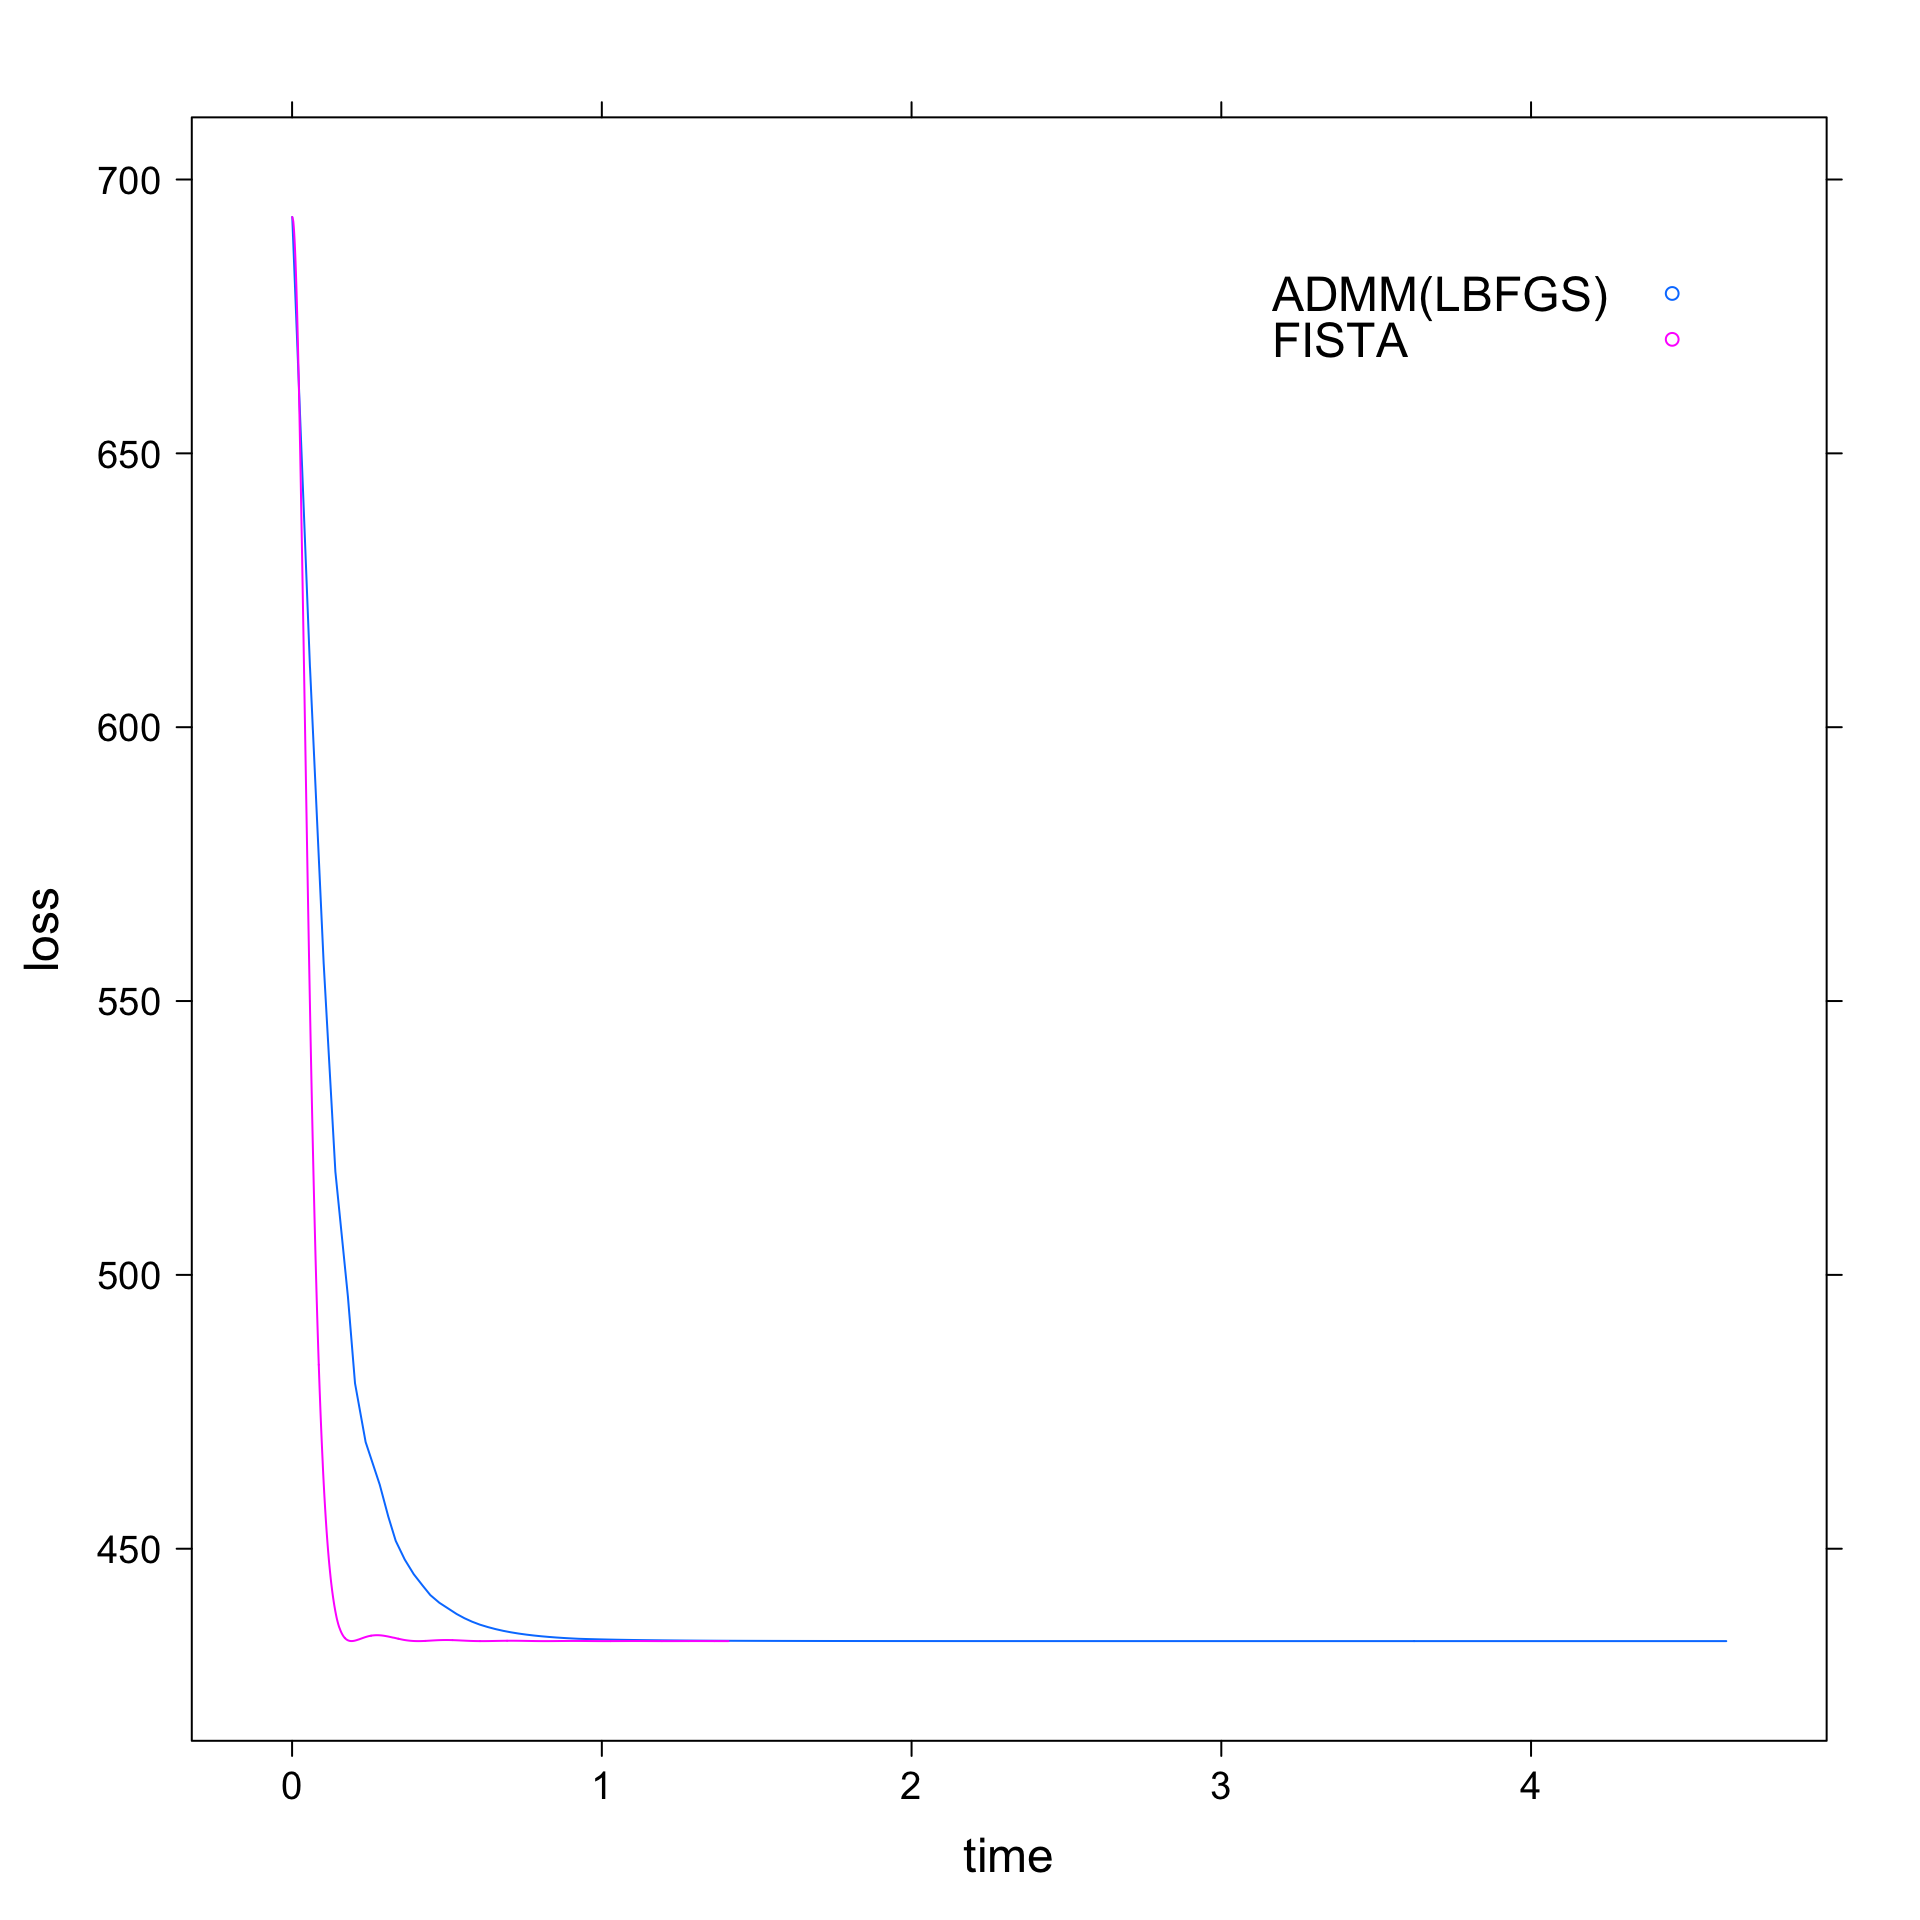
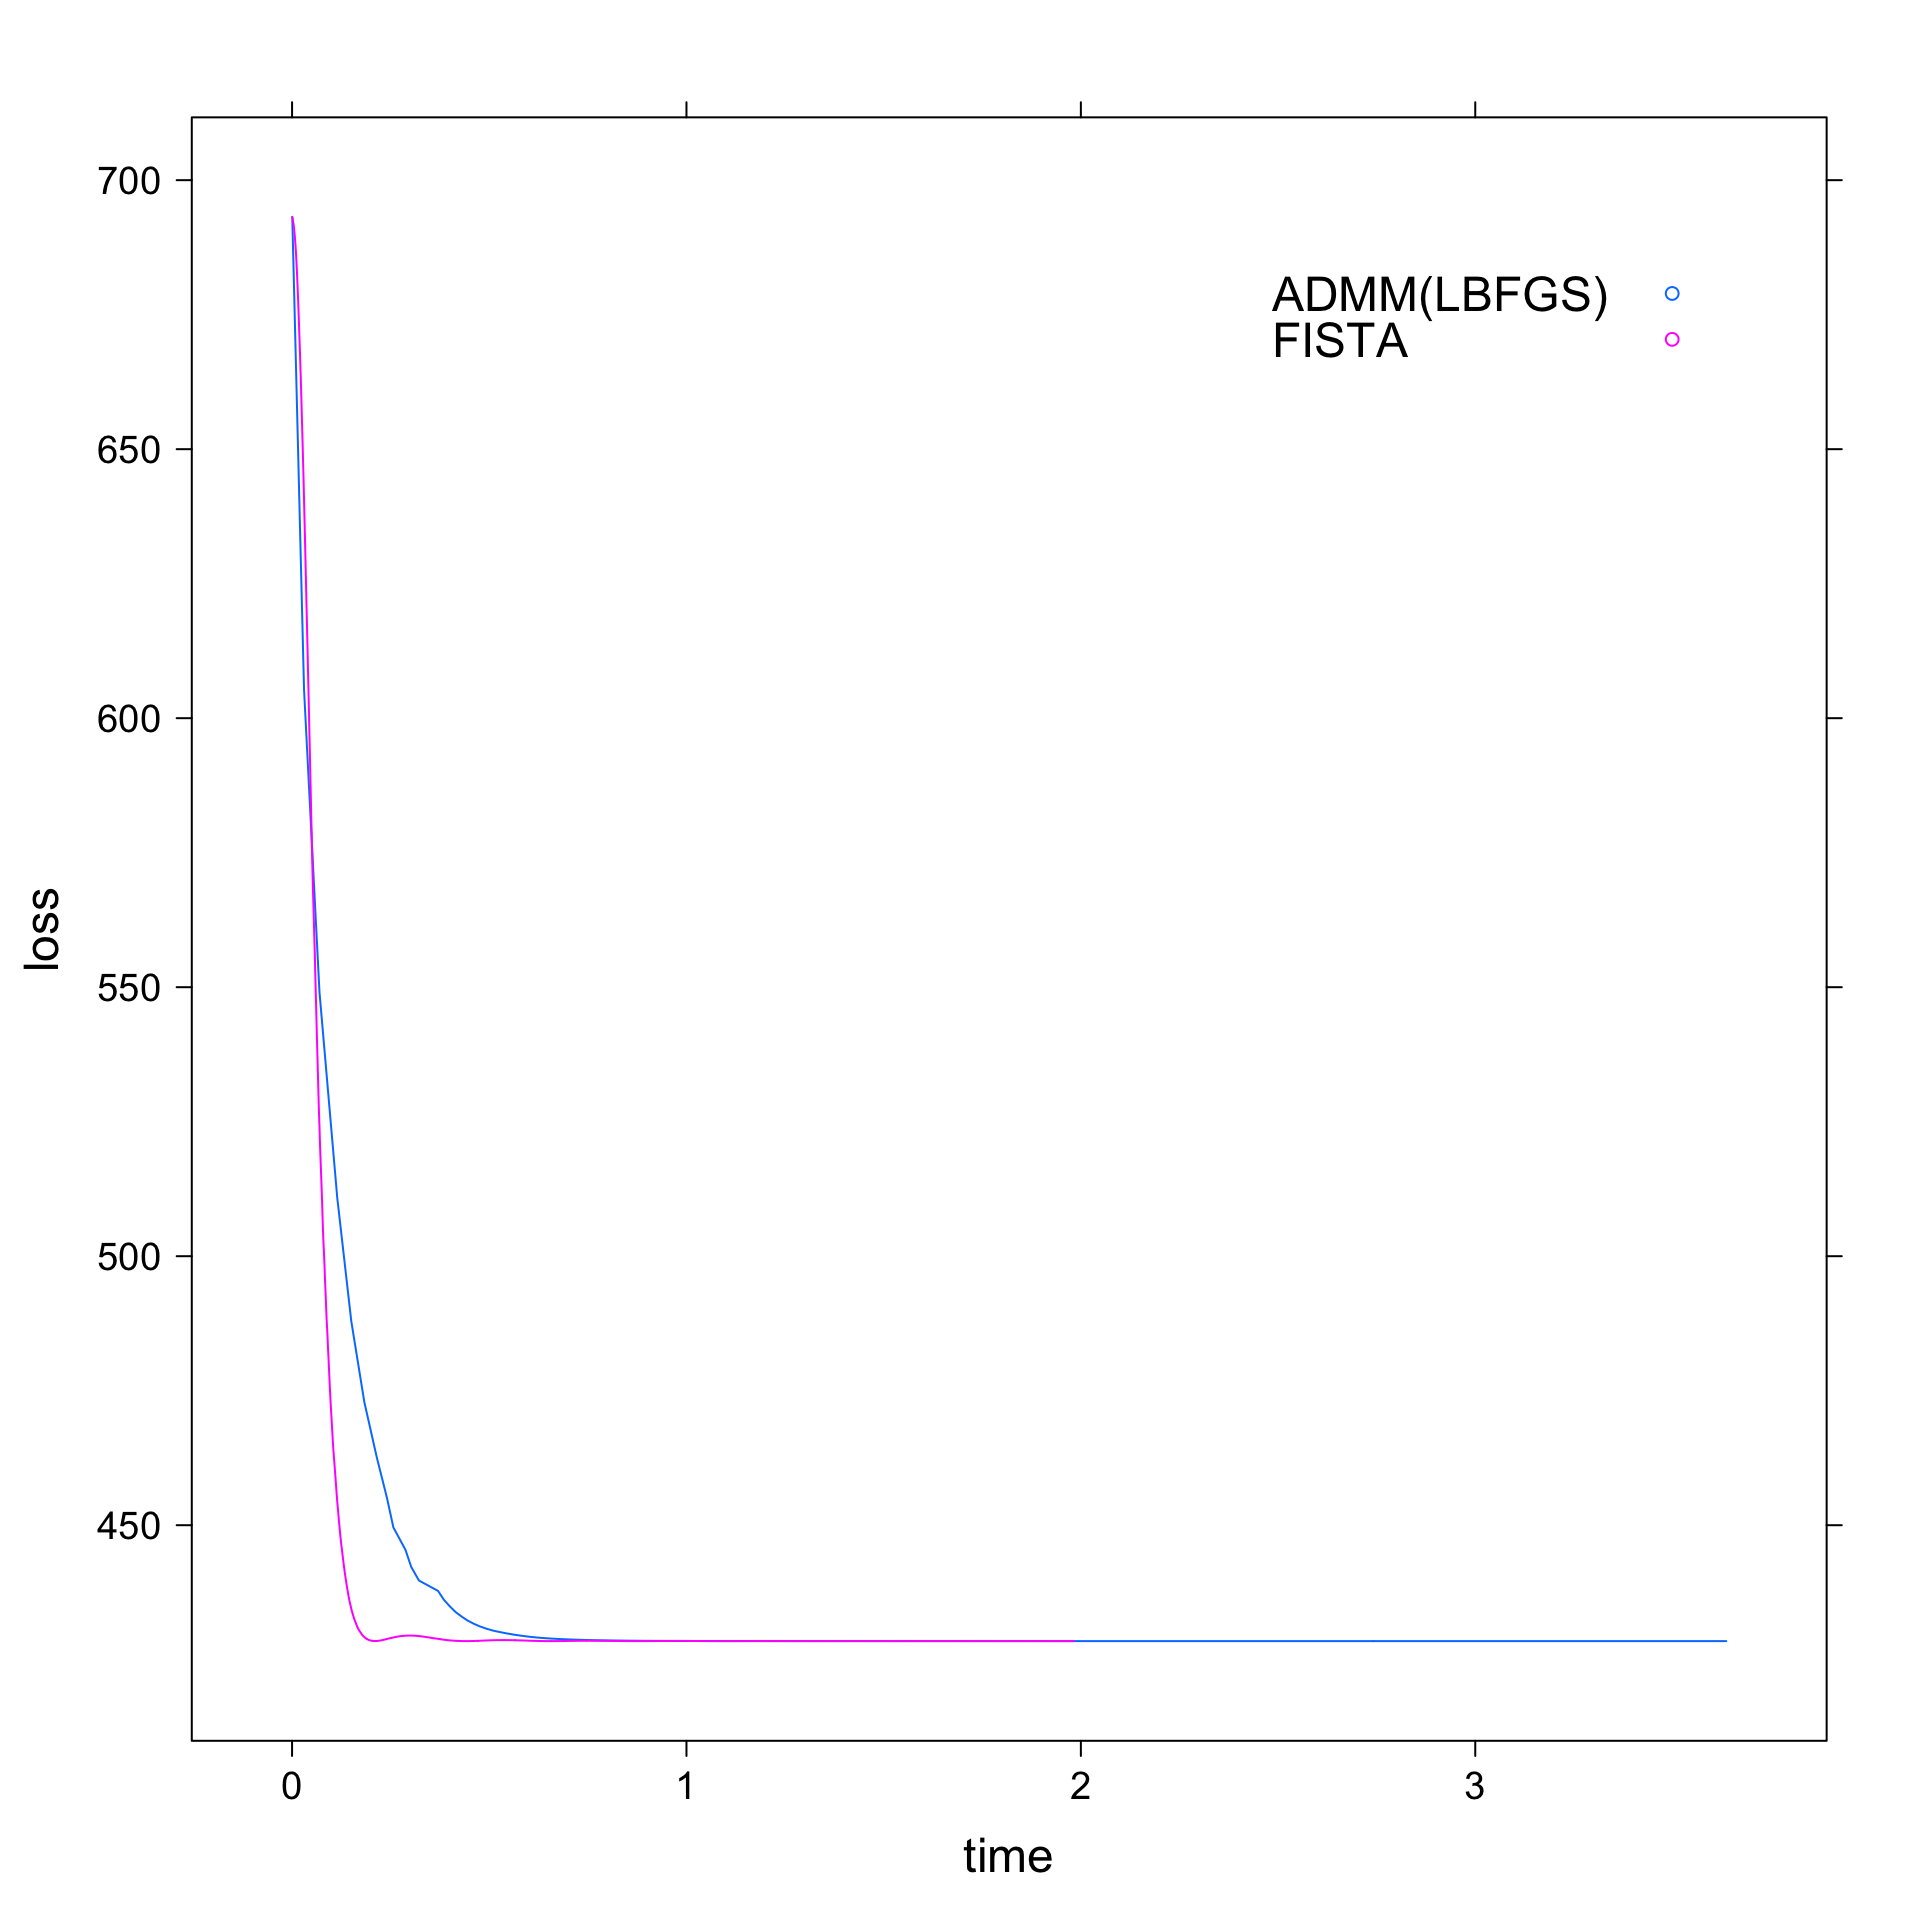
Built site for solvers: 1.0@cdb9736

diff --git a/articles/compare_opt_algo.html b/articles/compare_opt_algo.html
@@ -110,9 +110,9 @@
 <div class="sourceCode" id="cb4"><pre class="downlit">
 <span class="co"># Comparing total execution time</span>
 <span class="fu"><a href="https://rdrr.io/r/base/print.html">print</a></span>(<span class="kw">admm_nr</span><span class="op">$</span><span class="kw">total_time</span>)
-<span class="co">#&gt; [1] 0.7485411</span>
+<span class="co">#&gt; [1] 0.8216924</span>
 <span class="fu"><a href="https://rdrr.io/r/base/print.html">print</a></span>(<span class="kw">admm_bfgs</span><span class="op">$</span><span class="kw">total_time</span>)
-<span class="co">#&gt; [1] 3.018378</span>
+<span class="co">#&gt; [1] 2.852332</span>
 </pre></div>
 <p>Now, these fits cannot be directly used to plot as they contain a lot of parameter so we’ll call a utility function that merges the relevant parameter and returns a dataframe.</p>
 <div class="sourceCode" id="cb5"><pre class="downlit">

diff --git a/articles/compare-fista-admm.html b/articles/compare-fista-admm.html
@@ -111,9 +111,9 @@
 <div class="sourceCode" id="cb4"><pre class="downlit">
 <span class="co"># Comparing total execution time</span>
 <span class="fu"><a href="https://rdrr.io/r/base/print.html">print</a></span>(<span class="kw">fista_fit</span><span class="op">$</span><span class="kw">total_time</span>)
-<span class="co">#&gt; [1] 1.410378</span>
+<span class="co">#&gt; [1] 1.982861</span>
 <span class="fu"><a href="https://rdrr.io/r/base/print.html">print</a></span>(<span class="kw">admm_fit</span><span class="op">$</span><span class="kw">total_time</span>)
-<span class="co">#&gt; [1] 4.673672</span>
+<span class="co">#&gt; [1] 3.679024</span>
 </pre></div>
 <p>Now, these fits cannot be directly used to plot as they contain a lot of parameter so we’ll call a utility function that merges the relevant parameter and returns a dataframe.</p>
 <div class="sourceCode" id="cb5"><pre class="downlit">
